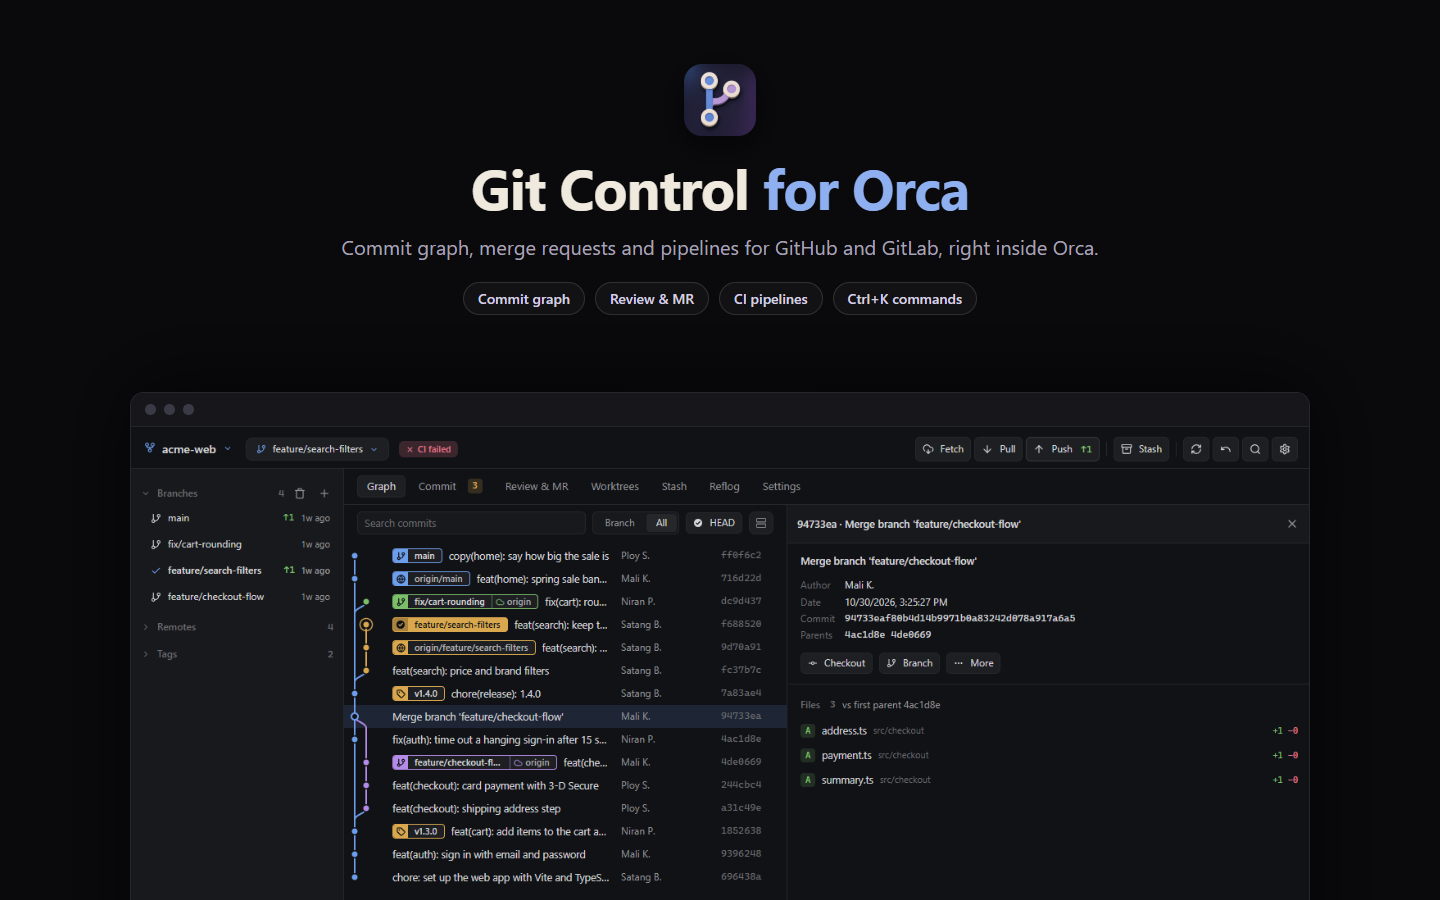
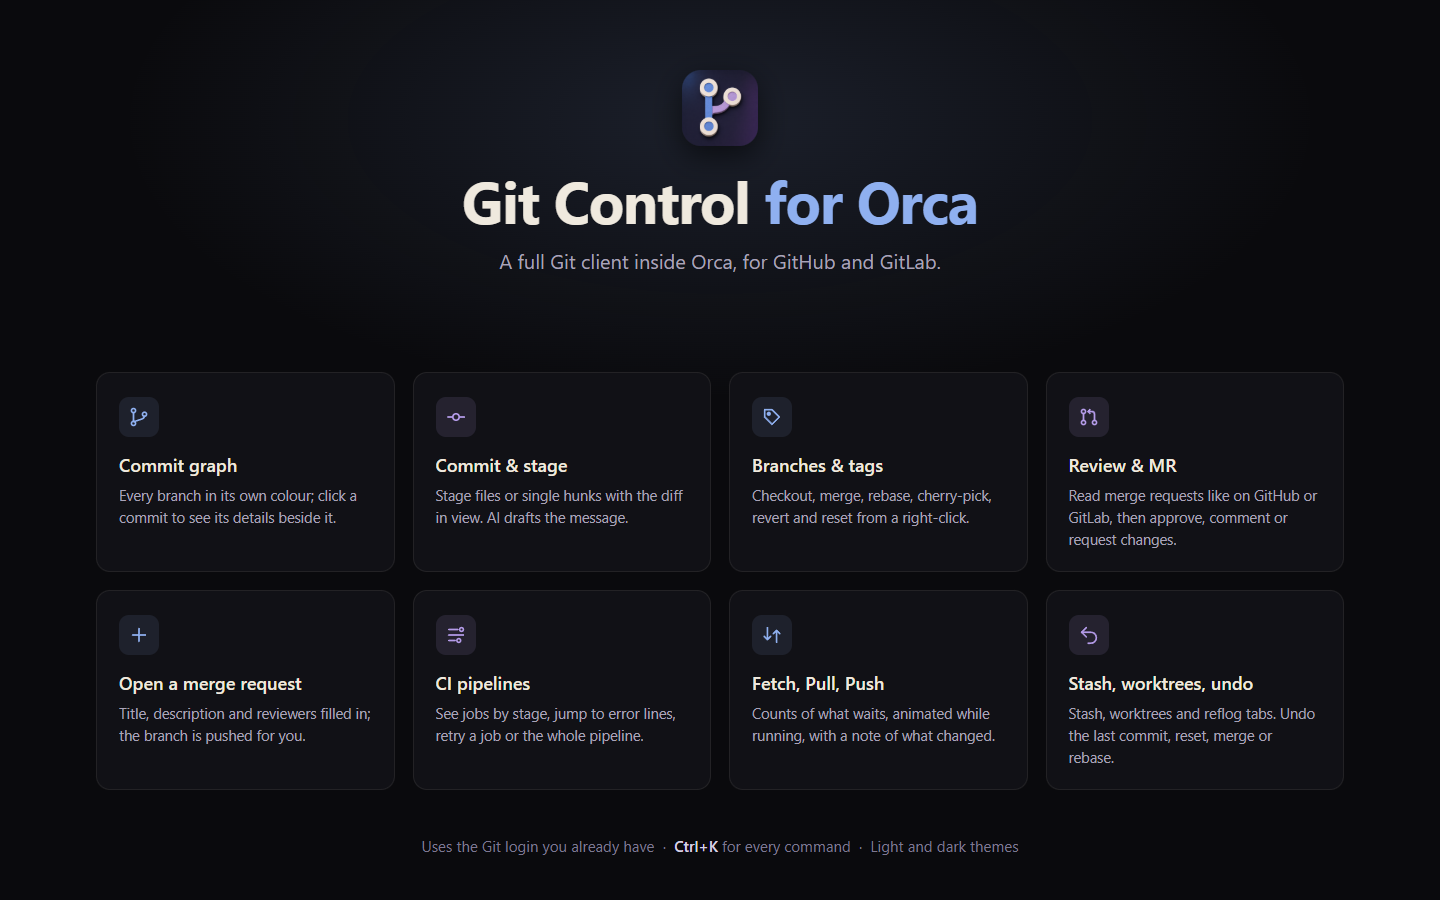
Release 0.6.2: Review & MR keeps and reports a GitLab list that fails; marketplace cover lists everything Git Control does, near-black posters; drop deprecated publisher

Changed region(s): [[0.0625, 0.4356, 0.9062, 0.9956], [0.25, 0.0622, 0.75, 0.3422], [0.7188, 0.4667, 0.9062, 0.6222]]

diff --git a/README.md b/README.md
@@ -4,7 +4,7 @@ A Git client inside Orca: the commit graph, commits, branches, stashes, merge re
 GitHub and GitLab, in one editor tab and a sidebar panel. It runs your installed `git` and signs in with
 the Git login you already have (or `gh` / `glab` when they are set up), so there are no tokens to create.
 
-![Git Control: the commit graph with a merge commit's details docked beside it](assets/promo/graph.png)
+![Git Control for Orca: commit graph, commits, branches, merge requests, CI pipelines and more](assets/promo/graph.png)
 
 ## Get started
 
